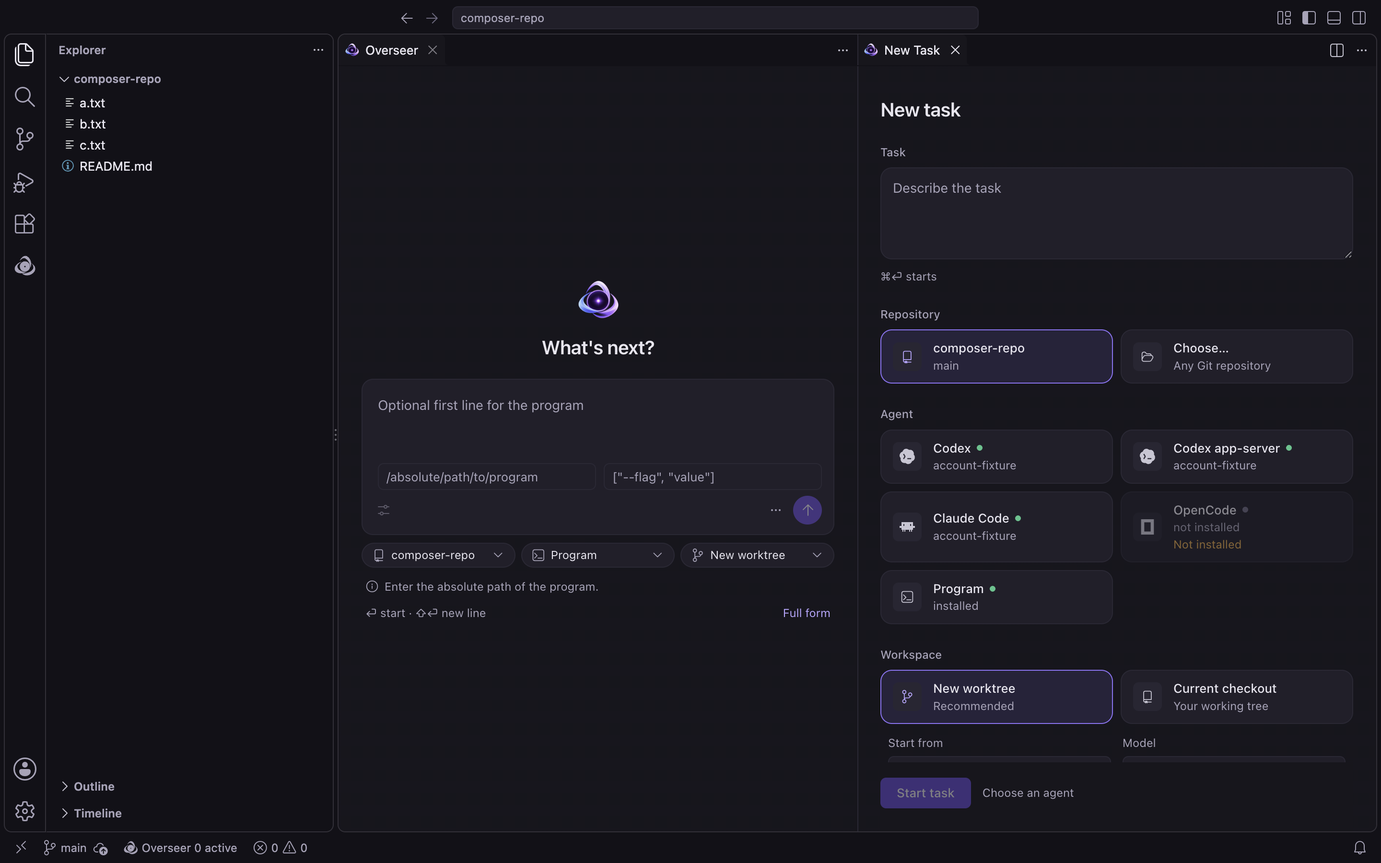
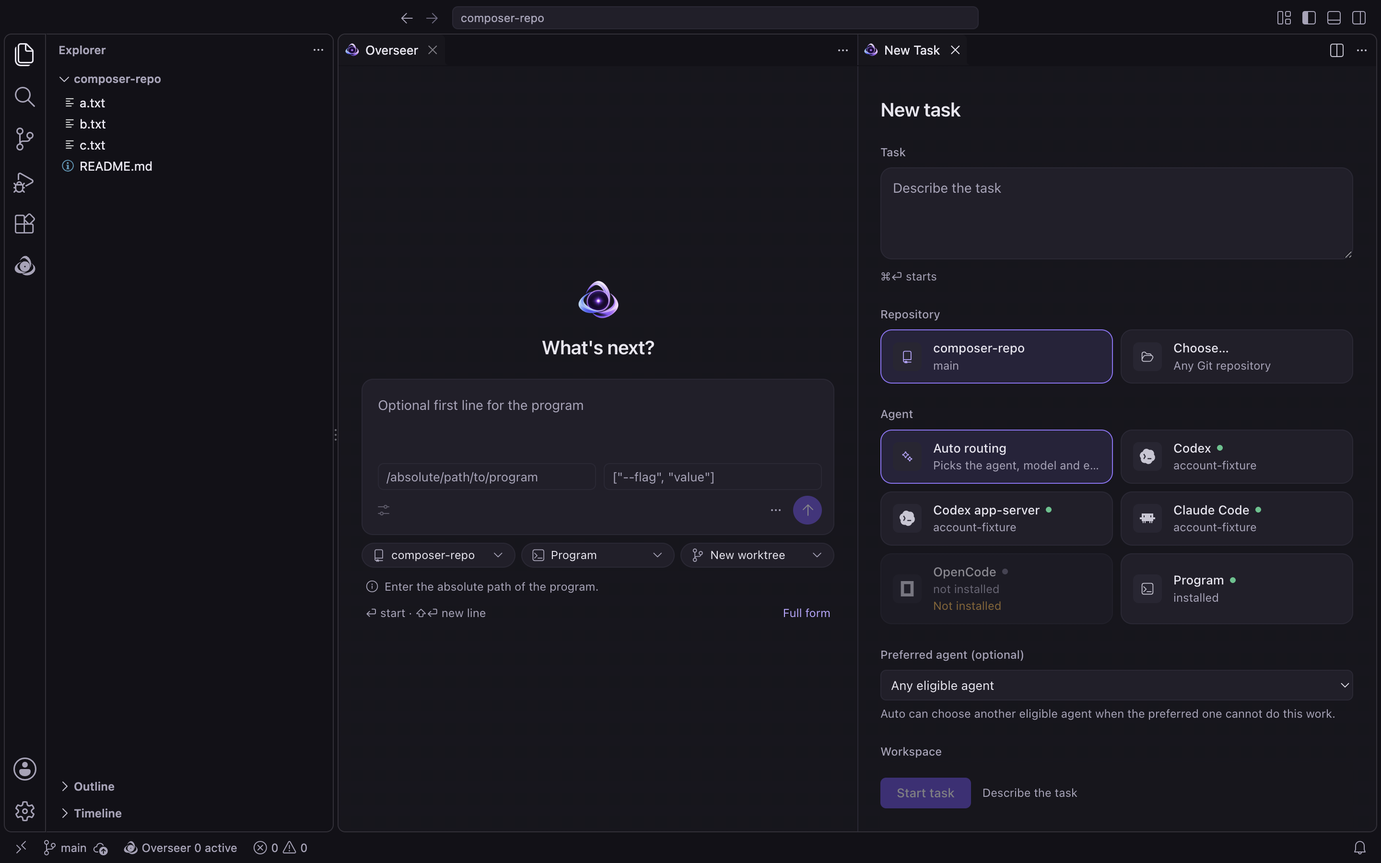
feat(auto): expose routed root start in VS Code composer

diff --git a/extension/media/composer.js b/extension/media/composer.js
@@ -29,7 +29,7 @@
     const start = ui.iconButton('arrow-up', 'Start agent', { cls: 'primary send', shortcut: 'Enter' }); start.id = 'start';
     row.append(toolsBar, el('span', 'spacer'), more, start);
     box.append(tray, task, generic, row);
-    const tools = window.OverseerPromptTools.create(task, toolsBar, tray, { post, noModel: true, harness: () => form.harness, target: () => form.repo ? { repo: form.repo } : null, notice: t => { note.className = 'composer-note error'; note.replaceChildren(ui.icon('warning', 'sm'), el('span', null, t)); }, onChange: () => {} });
+    const tools = window.OverseerPromptTools.create(task, toolsBar, tray, { post, noModel: true, harness: () => form.routing === 'auto' ? 'auto' : form.harness, target: () => form.repo ? { repo: form.repo } : null, notice: t => { note.className = 'composer-note error'; note.replaceChildren(ui.icon('warning', 'sm'), el('span', null, t)); }, onChange: () => {} });
     const note = el('div', 'composer-note'); note.setAttribute('role', 'status');
     const foot = el('div', 'composer-foot');
     const full = el('button', 'link', 'Full form'); full.type = 'button'; full.title = 'Open the New Task form with every option';
@@ -54,20 +54,27 @@
       const repo = data.repos.find(r => r.path === form.repo);
       setChip(repoChip, 'repo', repo ? repo.name : 'Choose repository', repo ? `${repo.path}${repo.branch ? `\nOn ${repo.branch}` : ''}` : 'Choose a Git repository');
       const hx = harness(), a = account();
-      const agentLabel = form.harness === 'generic' ? 'Program' : `${ui.HARNESS[form.harness] || form.harness || 'Agent'}${a ? ' · ' + a.name : ''}`;
-      setChip(agentChip, ui.harnessMark(form.harness, 14), agentLabel, [hx && `${ui.HARNESS[hx.harness]} ${hx.version || ''}`, a && `${a.name}: ${a.signedIn ? 'signed in' + (a.plan ? ' · ' + a.plan : '') : 'not signed in'}`, a && ui.usageDetail(a.usage)].filter(Boolean).join('\n'));
-      modelChip.hidden = form.harness === 'generic';
+      const agentLabel = form.routing === 'auto' ? `Auto routing${form.preferredHarness ? ' · prefer ' + (ui.HARNESS[form.preferredHarness] || form.preferredHarness) : ''}` : form.harness === 'generic' ? 'Program' : `${ui.HARNESS[form.harness] || form.harness || 'Agent'}${a ? ' · ' + a.name : ''}`;
+      setChip(agentChip, form.routing === 'auto' ? 'sparkle' : ui.harnessMark(form.harness, 14), agentLabel, form.routing === 'auto' ? 'Selects an eligible account, agent, model and effort for each work unit' : [hx && `${ui.HARNESS[hx.harness]} ${hx.version || ''}`, a && `${a.name}: ${a.signedIn ? 'signed in' + (a.plan ? ' · ' + a.plan : '') : 'not signed in'}`, a && ui.usageDetail(a.usage)].filter(Boolean).join('\n'));
+      modelChip.hidden = form.routing === 'auto' || form.harness === 'generic';
       setChip(modelChip, 'sparkle', form.model || 'Default model', form.model ? `Model: ${form.model}` : 'The harness default model');
       setChip(modeChip, form.mode === 'current' ? 'repo' : 'git-branch', form.mode === 'current' ? 'Current checkout' : 'New worktree', form.mode === 'current' ? 'Works directly in your checkout' : `A new branch and worktree${form.ref ? ' from ' + form.ref : ''}; your checkout is untouched`);
-      generic.hidden = form.harness !== 'generic';
+      generic.hidden = form.routing === 'auto' || form.harness !== 'generic';
       tools.refresh();
-      task.placeholder = form.harness === 'generic' ? 'Optional first line for the program' : 'Send off a task';
+      task.placeholder = form.routing !== 'auto' && form.harness === 'generic' ? 'Optional first line for the program' : 'Send off a task';
       validate();
     }
     function problem() {
       if (!data) return {};
       if (!data.trusted) return { text: 'Trust this workspace to start agents.', fix: 'Trust', command: 'workbench.trust.manage' };
       if (!form.repo) return { text: 'Choose a repository.', fix: 'Choose…', action: () => post({ type: 'composerBrowse' }) };
+      if (form.routing === 'auto') {
+        const supported = data.accounts.filter(a => (a.signedIn && (a.harnesses || []).some(h => ['codex', 'claude'].includes(h))) || (a.installed && (a.harnesses || []).includes('opencode')));
+        if (!supported.length) return { text: 'Sign in to an agent account or install local OpenCode for Auto routing.', fix: 'Add account', command: 'overseer.addProfile' };
+        if (supported.length > 8) return { text: 'Auto routing supports up to eight signed-in accounts.' };
+        if (!task.value.trim()) return { soft: true };
+        return {};
+      }
       const hx = harness();
       if (!hx) return { text: 'Choose an agent.' };
       if (!hx.installed) return { text: `${ui.HARNESS[hx.harness] || hx.harness} is not installed.`, fix: 'How to install', url: hx.install_url };
@@ -102,15 +109,20 @@
         'sep', { label: 'Choose folder…', icon: 'folder-opened', run: () => post({ type: 'composerBrowse' }) }], { label: 'Repository' });
     }
     function menuAgent() {
-      const items = [];
+      const items = [{ head: 'Automatic selection' },
+        { label: 'Auto routing · any eligible agent', icon: 'sparkle', checked: form.routing === 'auto' && !form.preferredHarness,
+          run: () => { form.routing = 'auto'; form.preferredHarness = ''; save(); } },
+        ...[['codex-app', 'Codex'], ['claude', 'Claude Code'], ['opencode', 'OpenCode']].map(([value, label]) =>
+          ({ label: `Auto routing · prefer ${label}`, icon: 'sparkle', checked: form.routing === 'auto' && form.preferredHarness === value,
+            run: () => { form.routing = 'auto'; form.preferredHarness = value; save(); } })), 'sep'];
       for (const hx of data.harnesses) {
         if (hx.harness === 'codex-app' && !data.showAppServer) continue;
         items.push({ head: `${ui.HARNESS[hx.harness] || hx.harness}${hx.installed ? '' : ' · not installed'}` });
-        if (hx.harness === 'generic') { items.push({ label: 'Run a program', logo: ui.harnessMark('generic', 14), checked: form.harness === 'generic', run: () => { form.harness = 'generic'; save(); } }); continue; }
+        if (hx.harness === 'generic') { items.push({ label: 'Run a program', logo: ui.harnessMark('generic', 14), checked: form.routing !== 'auto' && form.harness === 'generic', run: () => { form.routing = 'manual'; form.harness = 'generic'; save(); } }); continue; }
         const accts = data.accounts.filter(a => (a.harnesses || []).includes(hx.harness));
         if (!accts.length) items.push({ label: 'Add account…', icon: 'person-add', run: () => post({ type: 'command', command: 'overseer.addProfile' }) });
-        for (const a of accts) items.push({ label: a.name, logo: ui.harnessMark(hx.harness, 14), hint: a.signedIn ? (ui.usageText(a.usage) || a.plan || '') : 'signed out', checked: form.harness === hx.harness && form.account === a.id,
-          title: `${a.name}: ${a.signedIn ? 'signed in' : 'not signed in'}${a.kind === 'follows-app' ? ' · follows the desktop app' : ''}`, run: () => { form.harness = hx.harness; form.account = a.id; if (!MODELS[hx.harness]?.includes(form.model)) form.model = ''; save(); } });
+        for (const a of accts) items.push({ label: a.name, logo: ui.harnessMark(hx.harness, 14), hint: a.signedIn ? (ui.usageText(a.usage) || a.plan || '') : 'signed out', checked: form.routing !== 'auto' && form.harness === hx.harness && form.account === a.id,
+          title: `${a.name}: ${a.signedIn ? 'signed in' : 'not signed in'}${a.kind === 'follows-app' ? ' · follows the desktop app' : ''}`, run: () => { form.routing = 'manual'; form.harness = hx.harness; form.account = a.id; if (!MODELS[hx.harness]?.includes(form.model)) form.model = ''; save(); } });
       }
       ui.menu(agentChip, items, { label: 'Agent' });
     }
@@ -162,7 +174,7 @@
       data(d) {
         data = d;
         const def = d.defaults || {};
-        form = { repo: form.repo || def.repo || d.repos[0]?.path, harness: form.harness || def.harness, account: form.account || def.account, model: form.model ?? def.model ?? '', mode: form.mode || def.mode || 'worktree', approval: form.approval || def.approval, ref: form.ref || '' };
+        form = { repo: form.repo || def.repo || d.repos[0]?.path, routing: form.routing || def.routing || 'manual', preferredHarness: form.preferredHarness ?? def.preferredHarness ?? '', harness: form.harness || def.harness, account: form.account || def.account, model: form.model ?? def.model ?? '', mode: form.mode || def.mode || 'worktree', approval: form.approval || def.approval, ref: form.ref || '' };
         if (form.repo && !d.repos.some(r => r.path === form.repo)) form.repo = d.repos[0]?.path;
         // No remembered agent: prefer an installed harness with a signed-in account.
         if (!d.harnesses.some(h => h.harness === form.harness && h.installed)) {

diff --git a/extension/media/new-task.js b/extension/media/new-task.js
@@ -6,7 +6,7 @@
   const vscode = acquireVsCodeApi();
   const saved = vscode.getState() || {};
   let data = { repos: [], harnesses: [], accounts: [], branches: {}, trusted: true };
-  const form = { repo: saved.repo, harness: saved.harness, account: saved.account, mode: saved.mode || 'worktree', ref: saved.ref || '', model: saved.model || '', approval: saved.approval || 'on-request', prompt: saved.prompt || '', program: saved.program || '', args: saved.args || '[]' };
+  const form = { repo: saved.repo, routing: saved.routing || 'manual', preferredHarness: saved.preferredHarness || '', harness: saved.harness, account: saved.account, mode: saved.mode || 'worktree', ref: saved.ref || '', model: saved.model || '', approval: saved.approval || 'on-request', prompt: saved.prompt || '', program: saved.program || '', args: saved.args || '[]' };
   const $ = id => document.getElementById(id);
   const el = (tag, cls, text) => { const e = document.createElement(tag); if (cls) e.className = cls; if (text !== undefined) e.textContent = text; return e; };
   const persist = () => vscode.setState({ ...form });
@@ -62,18 +62,21 @@
     const repoItems = data.repos.map(r => ({ value: r.path, title: r.name, sub: r.branch || 'detached', subTitle: r.path, tip: `${r.path}${r.branch ? ' · ' + r.branch : ''}`, icon: ICON.repo, hints: [r.branch ? 'on ' + r.branch : 'detached', r.source] }));
     repoItems.push({ value: '__browse__', title: 'Choose…', sub: 'Any Git repository', icon: ICON.folder });
     tiles($('repos'), 'Repository', repoItems, form.repo, (v, moving) => { if (v === '__browse__') { if (!moving) vscode.postMessage({ type: 'browse' }); return; } form.repo = v; persist(); vscode.postMessage({ type: 'branches', repo: v }); render(); });
-    tiles($('harnesses'), 'Harness', data.harnesses.map(h => ({ value: h.harness, title: h.label, logo: ui.harnessMark(h.harness, 16), sub: h.installed ? String(h.version || 'installed').split(' ')[0] : 'not installed', tip: [h.label, h.version, ...(h.hints || [])].filter(Boolean).join(' · '),
-      status: h.installed ? { cls: 'ok', text: 'ready' } : { cls: 'off', text: 'missing' }, hints: h.hints, disabled: !h.installed, why: h.installed ? '' : 'Not installed' })), form.harness,
-      v => { form.harness = v; const ok = compatible().some(a => a.id === form.account); if (!ok) form.account = (compatible().find(a => a.signedIn) || {}).id; persist(); render(); });
+    tiles($('harnesses'), 'Agent', [{ value: '__auto__', title: 'Auto routing', icon: 'sparkle', sub: 'Picks the agent, model and effort per work unit', tip: 'Uses available signed-in accounts and local usage evidence' }, ...data.harnesses.map(h => ({ value: h.harness, title: h.label, logo: ui.harnessMark(h.harness, 16), sub: h.installed ? String(h.version || 'installed').split(' ')[0] : 'not installed', tip: [h.label, h.version, ...(h.hints || [])].filter(Boolean).join(' · '),
+      status: h.installed ? { cls: 'ok', text: 'ready' } : { cls: 'off', text: 'missing' }, hints: h.hints, disabled: !h.installed, why: h.installed ? '' : 'Not installed' }))], form.routing === 'auto' ? '__auto__' : form.harness,
+      v => { form.routing = v === '__auto__' ? 'auto' : 'manual'; if (v !== '__auto__') form.harness = v; const ok = compatible().some(a => a.id === form.account); if (!ok) form.account = (compatible().find(a => a.signedIn) || {}).id; persist(); render(); });
     const accounts = compatible();
-    $('account-section').hidden = !form.harness || form.harness === 'generic';
-    $('generic-section').hidden = form.harness !== 'generic';
-    $('approval-section').hidden = form.harness !== 'codex-app';
+    $('account-section').hidden = form.routing === 'auto' || !form.harness || form.harness === 'generic';
+    $('generic-section').hidden = form.routing === 'auto' || form.harness !== 'generic';
+    $('approval-section').hidden = form.routing === 'auto' || form.harness !== 'codex-app';
+    $('auto-preference').hidden = form.routing !== 'auto';
+    $('preferred-harness').value = form.preferredHarness;
+    $('model-wrap').hidden = form.routing === 'auto';
     tiles($('accounts'), 'Account', accounts.map(a => ({ value: a.id, title: a.name, logo: ui.providerMark(a.provider, 16), sub: [a.plan, a.kind === 'follows-app' ? 'desktop login' : ''].filter(Boolean).join(' · ') || (a.signedIn ? 'signed in' : ''),
       tip: `${a.name}: ${a.signedIn ? 'signed in' : 'not signed in'}${a.plan ? ' · ' + a.plan : ''}${a.fingerprint ? ' · id ' + a.fingerprint : ''}${a.kind === 'follows-app' ? '\nFollows the desktop app login and changes when the app switches accounts' : '\nFixed account with its own credential folder'}`,
       status: a.signedIn ? { cls: 'ok', text: 'signed in' } : { cls: 'warn', text: 'not signed in' }, hints: [a.plan, a.fingerprint && 'id ' + a.fingerprint].filter(Boolean),
       disabled: !a.signedIn, why: a.signedIn ? '' : 'Sign in first' })), form.account, v => { form.account = v; persist(); render(); });
-    $('no-accounts').hidden = !form.harness || form.harness === 'generic' || accounts.length > 0;
+    $('no-accounts').hidden = form.routing === 'auto' || !form.harness || form.harness === 'generic' || accounts.length > 0;
     tiles($('modes'), 'Workspace', [
       { value: 'worktree', title: 'New worktree', icon: ICON.worktree, sub: 'Recommended', tip: 'Isolated branch and worktree; your checkout is not touched' },
       { value: 'current', title: 'Current checkout', icon: ICON.current, sub: 'Your working tree', tip: 'Works directly in your checkout. Existing staged, unstaged, untracked and unsaved work is recorded and preserved' },
@@ -89,9 +92,10 @@
       { value: 'untrusted', title: 'Untrusted', icon: ICON.untrusted, sub: 'Ask more often', tip: 'Ask before anything that is not a known read-only command' },
       { value: 'never', title: 'Never ask', icon: ICON.never, sub: 'Sandbox only', tip: 'Sandbox limits apply; no approval requests' },
     ], form.approval, v => { form.approval = v; persist(); render(); });
-    const ready = !!form.repo && !!form.harness && (form.harness === 'generic' ? !!form.program : !!form.account && !!form.prompt.trim()) && data.trusted;
+    const autoAccounts = data.accounts.filter(a => (a.signedIn && (a.harnesses || []).some(h => ['codex', 'claude'].includes(h))) || (a.installed && (a.harnesses || []).includes('opencode')));
+    const ready = !!form.repo && (form.routing === 'auto' ? !!form.prompt.trim() && autoAccounts.length > 0 && autoAccounts.length <= 8 : !!form.harness && (form.harness === 'generic' ? !!form.program : !!form.account && !!form.prompt.trim())) && data.trusted;
     $('start').disabled = !ready;
-    $('start-why').textContent = !data.trusted ? 'Trust this workspace to start agents' : !form.repo ? 'Choose a repository' : !form.harness ? 'Choose an agent' : form.harness !== 'generic' && !form.account ? 'Choose a signed-in account' : form.harness === 'generic' ? (form.program ? '' : 'Enter the program path') : !form.prompt.trim() ? 'Describe the task' : '';
+    $('start-why').textContent = !data.trusted ? 'Trust this workspace to start agents' : !form.repo ? 'Choose a repository' : form.routing === 'auto' ? (!autoAccounts.length ? 'Sign in to an agent account or install local OpenCode' : autoAccounts.length > 8 ? 'Auto routing supports up to eight accounts' : !form.prompt.trim() ? 'Describe the task' : '') : !form.harness ? 'Choose an agent' : form.harness !== 'generic' && !form.account ? 'Choose a signed-in account' : form.harness === 'generic' ? (form.program ? '' : 'Enter the program path') : !form.prompt.trim() ? 'Describe the task' : '';
     document.body.dataset.ready = '1';
   }
   function compatible() { return data.accounts.filter(a => (a.harnesses || []).includes(form.harness)); }
@@ -101,6 +105,7 @@
     $(id).addEventListener('input', () => { form[key] = $(id).value; persist(); render(); });
   }
   $('ref').addEventListener('change', () => { form.ref = $('ref').value; persist(); });
+  $('preferred-harness').addEventListener('change', () => { form.preferredHarness = $('preferred-harness').value; persist(); });
   $('start').addEventListener('click', () => { if (!$('start').disabled) vscode.postMessage({ type: 'start', form: { ...form } }); });
   $('prompt').addEventListener('keydown', e => { if ((e.metaKey || e.ctrlKey) && e.key === 'Enter') { e.preventDefault(); $('start').click(); } });
   window.addEventListener('message', e => {

diff --git a/extension/src/task-launcher.js b/extension/src/task-launcher.js
@@ -3,6 +3,7 @@
 // daemon request that creates a task.
 const vscode = require('vscode');
 const path = require('path');
+const crypto = require('crypto');
 const { execFile } = require('child_process');
 
 const INSTALL = { claude: 'https://docs.anthropic.com/en/docs/claude-code/setup', codex: 'https://developers.openai.com/codex/cli', opencode: 'https://opencode.ai/docs' };
@@ -42,7 +43,7 @@ class TaskLauncher {
   accounts() {
     return (this.model.accounts || []).map(a => {
       const st = this.model.profileStatus.get(a.id);
-      return { ...a, signedIn: !!st?.logged_in, plan: st?.identity?.plan, fingerprint: (st?.identity?.account_fingerprint || st?.identity?.fingerprint || '').slice(0, 8), usage: this.model.accountUsage?.get(a.id) };
+      return { ...a, signedIn: !!st?.logged_in, installed: st?.installed === true, plan: st?.identity?.plan, fingerprint: (st?.identity?.account_fingerprint || st?.identity?.fingerprint || '').slice(0, 8), usage: this.model.accountUsage?.get(a.id) };
     });
   }
 
@@ -73,7 +74,10 @@ class TaskLauncher {
     const repo = String(f.repo || ''); const harness = String(f.harness || '');
     if (!repo) throw new Error('Choose a repository.');
     let program, args = [];
-    if (harness === 'generic') {
+    if (f.routing === 'auto') {
+      if (!String(f.prompt || '').trim()) throw new Error('Describe the task.');
+      if (f.options?.images?.length) throw new Error('Auto starts cannot include images yet. Choose a manual agent for this task.');
+    } else if (harness === 'generic') {
       program = String(f.program || '');
       if (!path.isAbsolute(program)) throw new Error('Use an absolute path for the program.');
       try { args = JSON.parse(f.args || '[]'); } catch { throw new Error('Arguments must be a JSON array of strings.'); }
@@ -85,12 +89,41 @@ class TaskLauncher {
       if (choice !== 'Continue') return undefined;
     }
     const prompt = String(f.prompt || '');
+    if (f.routing === 'auto') return this.startAuto(f, repo, prompt);
     const created = await this.client.request('task.create', { repo, harness, profile_id: harness === 'generic' ? undefined : f.account, workspace_mode: f.mode === 'current' ? 'current' : 'worktree',
       target_ref: f.mode !== 'current' && f.ref ? f.ref : undefined, model: f.model || undefined, prompt, title: titleFor(prompt, program), program, args,
       approval_policy: harness === 'codex-app' ? (f.approval || 'on-request') : undefined, unsaved: unsaved.map(d => path.relative(repo, d.uri.fsPath)),
       effort: f.options?.effort, permission_mode: f.options?.permission_mode, images: f.options?.images });
     if (created.launch_error) throw new Error(`Could not start ${harness}: ${created.launch_error}`);
-    await this.saveDefaults({ repo, harness, account: f.account, model: f.model || '', mode: f.mode === 'current' ? 'current' : 'worktree', ...(f.approval ? { approval: f.approval } : {}) });
+    await this.saveDefaults({ repo, routing: 'manual', harness, account: f.account, model: f.model || '', mode: f.mode === 'current' ? 'current' : 'worktree', ...(f.approval ? { approval: f.approval } : {}) });
+    await this.model.refresh();
+    return created.run.id;
+  }
+
+  async startAuto(f, repo, prompt) {
+    const accounts = this.accounts().filter(a => (a.signedIn &&
+      (a.harnesses || []).some(h => ['codex', 'claude'].includes(h))) ||
+      (a.installed && (a.harnesses || []).includes('opencode')));
+    if (!accounts.length) throw new Error('Sign in to an agent account or install local OpenCode to use Auto routing.');
+    if (accounts.length > 8) throw new Error('Auto routing currently supports up to eight signed-in accounts.');
+    const preferred = String(f.preferredHarness || '');
+    if (preferred && !['codex-app', 'claude', 'opencode'].includes(preferred)) throw new Error('Unsupported Auto harness preference.');
+    const request = { repo, prompt, title: titleFor(prompt),
+      workspace_mode: f.mode === 'current' ? 'current' : 'worktree',
+      ...(f.mode !== 'current' && f.ref ? { target_ref: f.ref } : {}),
+      allowed_profiles: accounts.map(a => a.id),
+      ...(preferred ? { preferred_harness: preferred } : {}),
+      approval_policy: 'on-request' };
+    const hash = crypto.createHash('sha256').update(JSON.stringify(request)).digest('hex');
+    const previous = this.context.globalState.get('overseer.autoPendingStart');
+    const workUnitId = previous?.hash === hash ? previous.workUnitId : `ui-${crypto.randomUUID()}`;
+    await this.context.globalState.update('overseer.autoPendingStart', { hash, workUnitId });
+    await this.client.request('auto.mode.set', { enabled: true });
+    const created = await this.client.request('auto.start', { ...request, work_unit_id: workUnitId });
+    if (!created.run?.id) throw new Error('Auto routing paused: no eligible route. Refresh account usage or choose a manual agent.');
+    await this.context.globalState.update('overseer.autoPendingStart', undefined);
+    await this.saveDefaults({ repo, routing: 'auto', preferredHarness: preferred,
+      mode: f.mode === 'current' ? 'current' : 'worktree' });
     await this.model.refresh();
     return created.run.id;
   }

diff --git a/test/unit/task-launcher-auto.js b/test/unit/task-launcher-auto.js
@@ -1,0 +1,56 @@
+const assert = require('assert');
+const Module = require('module');
+const path = require('path');
+
+const vscode = { workspace: { isTrusted: true, textDocuments: [], workspaceFolders: [] }, window: {} };
+const originalLoad = Module._load;
+Module._load = function (request, ...rest) { return request === 'vscode' ? vscode : originalLoad.call(this, request, ...rest); };
+const { TaskLauncher } = require('../../extension/src/task-launcher');
+Module._load = originalLoad;
+
+function fixture(reply) {
+  const saved = new Map();
+  const calls = [];
+  const context = { globalState: { get: (key, fallback) => saved.has(key) ? saved.get(key) : fallback,
+    update: async (key, value) => { saved.set(key, value); } } };
+  const model = { accounts: [{ id: 'p-codex', harnesses: ['codex'], name: 'Codex' },
+    { id: 'p-claude', harnesses: ['claude'], name: 'Claude' },
+    { id: 'p-local', harnesses: ['opencode'], name: 'Local OpenCode' }],
+    profileStatus: new Map([['p-codex', { logged_in: true }], ['p-claude', { logged_in: true }],
+      ['p-local', { installed: true, logged_in: false }]]),
+    refresh: async () => { calls.push(['refresh']); } };
+  const client = { request: async (method, params) => { calls.push([method, params]);
+    if (method === 'auto.start') return reply;
+    if (method === 'task.create') return { run: { id: 'r-manual' } };
+    return { enabled: true };
+  } };
+  return { launcher: new TaskLauncher(context, client, model, async () => {}), calls, saved };
+}
+
+(async () => {
+  const f = { repo: '/tmp/overseer-auto-test-repo', routing: 'auto', mode: 'worktree',
+    prompt: 'Inspect the browser flow', preferredHarness: 'codex-app' };
+  const x = fixture({ state: 'launch_pending', run: { id: 'r-auto' },
+    decision: { selected: 'codex/sol/medium' } });
+  assert.equal(await x.launcher.start(f), 'r-auto');
+  assert.deepEqual(x.calls.slice(0, 2).map(c => c[0]), ['auto.mode.set', 'auto.start']);
+  const request = x.calls[1][1];
+  assert.equal(request.preferred_harness, 'codex-app');
+  assert.deepEqual(request.allowed_profiles, ['p-codex', 'p-claude', 'p-local']);
+  assert.equal(request.prompt, f.prompt);
+  assert.equal(request.workspace_mode, 'worktree');
+  assert.match(request.work_unit_id, /^[A-Za-z0-9_-]+$/);
+  assert.equal(x.saved.get('overseer.autoPendingStart'), undefined);
+
+  const y = fixture({ state: 'paused', decision: { selected: null } });
+  await assert.rejects(y.launcher.start(f), /no eligible route|paused/i);
+  const pending = y.saved.get('overseer.autoPendingStart');
+  assert.equal(pending.workUnitId, y.calls[1][1].work_unit_id);
+  await assert.rejects(y.launcher.start(f), /no eligible route|paused/i);
+  assert.equal(y.calls[3][1].work_unit_id, pending.workUnitId, 'retry must reuse its admitted work-unit identity');
+
+  const z = fixture();
+  assert.equal(await z.launcher.start({ repo: f.repo, harness: 'codex', account: 'p-codex', prompt: 'manual' }), 'r-manual');
+  assert.equal(z.calls[0][0], 'task.create', 'manual start must retain its existing daemon path');
+  console.log('task launcher Auto and manual starts passed');
+})().catch(error => { console.error(error); process.exitCode = 1; });

diff --git a/test/ui/scenario-composer.js b/test/ui/scenario-composer.js
@@ -87,6 +87,15 @@ const { Session, makeRepo, latestVsix, delay, repoRoot } = require('./harness');
     const g = await start('hello', 'generic');
     check('generic program started keyboard-only', g.run && g.shown, { run: g.run?.id, shown: g.shown, note: g.note, chip: g.chip, program: g.program });
 
+    // Auto is an explicit route choice; selecting it must not require a manual account or model.
+    await cdp.command('Overseer: New Agent'); await delay(800);
+    await dash.waitFor(`document.body.dataset.mode === 'composer'`, 5000);
+    await pickAgent('Auto routing · any eligible agent');
+    const autoChoice = { agent: await chip('agent'), modelHidden: await dash.eval(`document.querySelector('[data-chip="model"]').hidden`),
+      enabled: await dash.eval(`!document.getElementById('start').disabled`) };
+    check('composer offers Auto routing with agent and model selection delegated to the daemon', /Auto routing/.test(autoChoice.agent) && autoChoice.modelHidden, autoChoice);
+    await pickAgent('Run a program');
+
     // Problems inline with their fix.
     await cdp.command('Overseer: New Agent'); await delay(800);
     await dash.waitFor(`document.body.dataset.mode === 'composer'`, 5000);
@@ -113,6 +122,12 @@ const { Session, makeRepo, latestVsix, delay, repoRoot } = require('./harness');
     await dash.eval(`[...document.querySelectorAll('.view-composer .link')].find(b => b.textContent === 'Full form').click()`);
     const form = await cdp.webview(`!!document.getElementById('harnesses') && document.body.dataset.ready === '1'`, 20000).then(() => true, () => false);
     check('the full New Task form stays one click away', form);
+    if (form) {
+      const autoForm = await cdp.webview(`document.getElementById('harnesses')?.querySelector('[data-value="__auto__"]') && document.body.dataset.ready === '1'`, 5000);
+      await autoForm.eval(`document.querySelector('#harnesses [data-value="__auto__"]').click()`);
+      const autoFields = await autoForm.eval(`({ selected: document.querySelector('#harnesses [data-value="__auto__"]').getAttribute('aria-checked'), accountHidden: document.getElementById('account-section').hidden, modelHidden: document.getElementById('model-wrap').hidden, preferenceVisible: !document.getElementById('auto-preference').hidden })`);
+      check('full New Task form shows Auto and its optional harness preference without manual account/model fields', autoFields.selected === 'true' && autoFields.accountHidden && autoFields.modelHidden && autoFields.preferenceVisible, autoFields);
+    }
     await s.screenshot('full-form');
 
     // Untrusted workspace (Restricted Mode, empty window): explained inline with the fix.

diff --git a/extension/src/new-task.js b/extension/src/new-task.js
@@ -23,12 +23,13 @@ class NewTaskPanel {
 <section><label for="prompt" class="sec">Task</label><textarea id="prompt" placeholder="Describe the task" aria-describedby="prompt-help"></textarea><div id="prompt-help" class="help">⌘⏎ starts</div></section>
 <section><h2 id="repos-h" class="sec">Repository</h2><div id="repos" class="tiles" aria-labelledby="repos-h"></div></section>
 <section><h2 id="harnesses-h" class="sec">Agent</h2><div id="harnesses" class="tiles" aria-labelledby="harnesses-h"></div></section>
+<section id="auto-preference" hidden><label for="preferred-harness" class="sec">Preferred agent (optional)</label><select id="preferred-harness"><option value="">Any eligible agent</option><option value="codex-app">Prefer Codex</option><option value="claude">Prefer Claude Code</option><option value="opencode">Prefer OpenCode</option></select><p class="help">Auto can choose another eligible agent when the preferred one cannot do this work.</p></section>
 <section id="account-section"><h2 id="accounts-h" class="sec">Account</h2><div id="accounts" class="tiles" aria-labelledby="accounts-h"></div>
 <p id="no-accounts" class="empty" hidden>No account for this agent yet. Add one from Accounts.</p></section>
 <section id="generic-section" hidden><h2 class="sec">Program</h2><div class="row"><div><label for="program">Executable</label><input id="program" placeholder="/absolute/path/to/program"></div>
 <div><label for="args">Arguments (JSON)</label><input id="args" value="[]"></div></div></section>
 <section><h2 id="modes-h" class="sec">Workspace</h2><div id="modes" class="tiles" aria-labelledby="modes-h"></div>
-<div id="ref-row" class="row ref-row"><div><label for="ref">Start from</label><select id="ref"></select></div><div><label for="model">Model</label><input id="model" placeholder="Default"></div></div></section>
+<div id="ref-row" class="row ref-row"><div><label for="ref">Start from</label><select id="ref"></select></div><div id="model-wrap"><label for="model">Model</label><input id="model" placeholder="Default"></div></div></section>
 <section id="approval-section" hidden><h2 id="approvals-h" class="sec">Approvals</h2><div id="approvals" class="tiles" aria-labelledby="approvals-h"></div></section>
 <div class="actions"><button id="start" class="btn primary">Start task</button><span id="start-why" class="why" role="status"></span></div>
 </main>` });

diff --git a/docs/rfcs/auto-mode.md b/docs/rfcs/auto-mode.md
@@ -230,6 +230,10 @@ Gate S proposes a per-run tool transport for Overseer and agent reports. Auto de
 
 Main's Gate S AC-180 spike, published at `2ad4ef3`, narrows the transport problem for Auto delegation: Claude Code 2.1.246 and Codex 0.155.0-alpha.16.4 called daemon-supplied MCP tools in tiny live turns, and OpenCode 1.15.13 did so with a mock model and a profile-local configuration. Auto should reuse the per-run token and daemon-side tool authorization where they fit, but this does not verify Auto's bounded submit/result contract, browser access, permissions, or account-budget checks. Claude's demonstrated `--strict-mcp-config` hides the user's configured MCP servers; it is suitable for Overseer's read-only session, but an Auto executor needing browser tools must retain its validated required tools. Codex exec needed a per-tool MCP approval setting for Overseer's read-only tools; that finding does not authorize blanket approval of Auto child actions. The spike measured large cached harness baselines (roughly 57k Claude tokens per model iteration and 69k Codex input tokens per turn), not subscription-window draw. Auto's expected-consumption model must account for that baseline and cache/handoff effects before claiming an efficient switch.
 
+The current main at `b55f558` also carries AC-151's partial live Claude rerun: Claude Code 2.1.246 reported a background native subagent, the child finished, but the parent did not resume to consume the answer during the ten-minute observation and its requested file was not written. Auto therefore cannot treat a native child's completion as parent progress, an acknowledged managed result, a settled writer, or a handoff checkpoint. Managed Auto delegation needs an explicit parent result acknowledgement and cancellation/restart reconciliation; background native descendants remain visible in run history but do not receive an invented Auto decision or allowance reservation. Reproduce that lifecycle with a controlled harness before marking AUTO-AC-21, 24, or 35 verified. Gate S is now active on draft pull request #14, so its run identity and shared-admission contracts are integration targets, not current-main APIs that this branch may assume already exist.
+
+The subsequent main ledger update at `b3ea1e7` verifies Gate S AC-181 and AC-184 against pull request #14: a daemon-owned Overseer conversation, read-only tools, restart-safe proposals, and a packaged Talk to Overseer flow. Its implementation is still on that draft branch, not merged into main. Auto should accept a confirmed request from that single daemon session through its existing durable root/child work-unit identity after the implementation lands; it must not create another conversation or let the session's read-only model call an Auto launch directly. The preview and launch APIs remain the routing boundary, while the session's confirmation record supplies authority. Until those APIs coexist in one build, retain the current composer path and mark cross-feature tests partial rather than treating the ledger's verification as an Auto integration pass.
+
 The 2026-09-27 main update at `bb1083a` confirms two owner decisions in Gate S: Overseer never answers an agent's permission request by itself, and briefings/report/ask/claim are available only when multiple agents work in one repository. Auto routing must carry the original run's permission bounds through selection, delegation, and handoff; an unavailable route or denied permission cannot be retried through Overseer to gain approval. An Auto-enabled lone parent may still request a bounded child through its separately granted delegation tool. Gate S's implementation goal is prepared but not activated, so the cross-feature admission tests remain future integration work. The same main update changes review-panel refresh/layout checks, not route eligibility, allowance measurement, or local telemetry. No Auto criterion or user routing setting is added by this update.
 
 The in-flight Swarm design makes that shared boundary more concrete without changing Auto's routing policy:

diff --git a/docs/verification/auto-mode/README.md b/docs/verification/auto-mode/README.md
@@ -4,6 +4,10 @@ The [full RFC](../../rfcs/auto-mode.md) defines all requirements and Verify clau
 
 Delivery instruction (2026-09-26): keep unfinished implementation local, then open a draft PR once all required acceptance criteria are verified. This supersedes the earlier no-PR preference; it does not authorize a remote XCB fork or production deployment. Historical notes below accurately record that no PR was created at those revisions.
 
+Current-main check (2026-09-27): a fresh `git fetch origin main` returned `b55f558`, already an ancestor of this Auto branch; no merge was needed. Main now marks Gate S active on draft pull request #14 and AC-151 partial after a Claude Code 2.1.246 live run whose background native child completed but whose parent did not resume or write the requested file within ten minutes. The RFC now requires managed-result acknowledgement and restart/cancellation reconciliation before treating a child result as progress or a handoff checkpoint. Gate S's shared run identity and admission remain a future merge integration, not an API available on main. This changes the tests needed for AUTO-AC-21/24/35, not the routing policy or the verified count (11/40). The recent main changes are documentation and live UI evidence; they do not alter the current daemon Auto start contract.
+
+Main advanced during the packaged Auto UI check to `b3ea1e7`. Its ledger now verifies Gate S AC-181/184 against draft pull request #14 and records the daemon session's restart-safe proposals, read-only tools, and packaged Talk flow. The code remains on the draft branch, so the Auto composer can continue using `auto.start` directly for a user-requested root; a later confirmed Overseer request must reuse that same durable admission path after Gate S merges. No Auto criterion is newly verified by another branch's test. The Auto UI slice in this branch was red-first at the launcher boundary and passed its fixture unit test, extension source check, and the packaged composer scenario (including manual starts and both Auto selectors). It exposes Auto and an optional harness preference, but does not yet preview an actual selected route, show ongoing child/result history, or satisfy the full AUTO-AC-25 Verify clause. The verified count remains 11/40.
+
 AUTO-AC-10 source-order follow-up (2026-09-27): revision `4699657` adds two red-first store regressions. A backward wall-clock step had allowed an older account fingerprint to replace the current identity and clear its evidence; the store now refuses the older observation before invalidating anything. A model catalog captured earlier had also been able to overwrite a newer catalog; the store now retains the later capture, including when the older write arrives last. Both focused tests failed on the old behavior, passed after the fixes, and the full serial Rust workspace suite passed (141 daemon unit tests, 170 protocol tests, and all TUI groups). Test-generated TUI evidence was restored. AUTO-AC-10 remains **in progress**: supported provider responses here do not provide a proven source-cache timestamp, and broader source-order, clock, and collector-timeout cases still need end-to-end evidence. No subscription draw or Auto completion claim follows from these storage guards.
 
 Subsequent main refresh (2026-09-27): published main advanced to `b55f558` and merged cleanly as `db20312`. It records AC-151's partial live Claude sub-agent behavior and identifies active Gate S pull request #14; the merged files are ledger, tracker, and UI evidence, with no daemon or Auto code change. Auto's existing rule that harness-native children remain under their harness until a supported delegation hook is verified still applies. The post-merge link check passed 624 links, the Auto criterion audit remained 11/40 with one conditional deferment, and the worktree was clean. No Auto criterion changed status.
